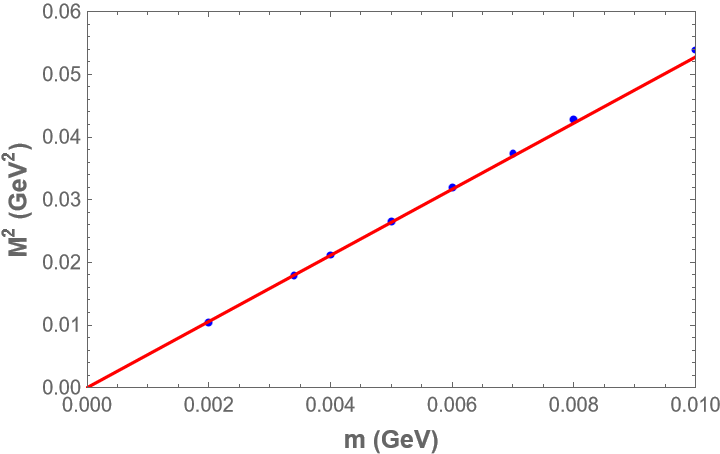
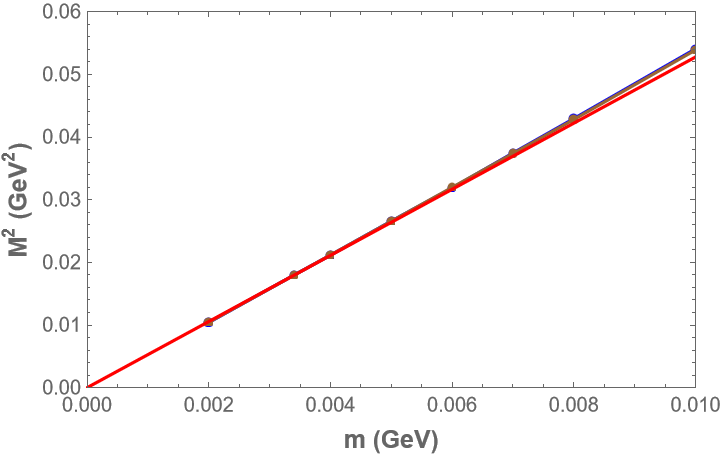
finial

diff --git a/latex/QC-Module.tex b/latex/QC-Module.tex
@@ -89,7 +89,7 @@ The results are shown in Fig.2.
 \begin{figure}[H]
     \centering
     \includegraphics[width=0.8\textwidth]{pm-M^2.png}
-    \caption{The red line shows the equation $M^2=\frac{2r_P(0.0034)}{f_\pi(0.0034)}m_\mu$; the blue points are calculated by $M^2=\frac{2r_P(m_\mu)}{f_\pi(m_\mu)}m_\mu$.}
+    \caption{The red line shows the equation $M^2=\frac{2r_P(0.0034)}{f_\pi(0.0034)}m_\mu$; the brown line shows the equation $M^2=\frac{2r_P(m_\mu)}{f_\pi(m_\mu)}m_\mu$; the blue line shows the results directly calculated from solving BSE.}
 \end{figure}
 This figure shows the Gell-Mann-Oakes-Renner relation.\\
 All the calculation results are shown below.
